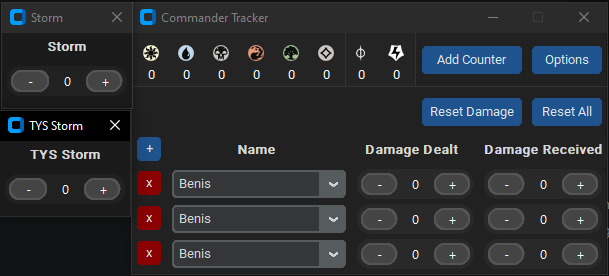
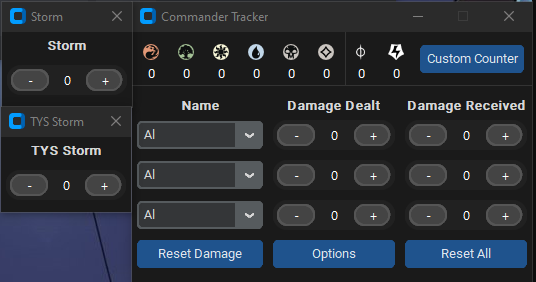
Return Screenshot to release version.

diff --git a/README.md b/README.md
@@ -3,16 +3,16 @@
 A lightweight tracker for EDH / Commander games using a simple desktop GUI.
 
 ## Features
-* Track mana, experience and poison.
+* Track mana, energy, and poison.
 * Track damage dealt by and received from up to 10 players.
 * Create custom counters as needed. 
 * Store names of friends and regular players.
 
 ## Shortcuts
-* Left-click adds to a mana counter
-* Right-click subtracts from a mana counter
-* Shift + Left-click resets mana counter to 0
-* Ctrl + Left-click resets all mana counters to 0
+* Left-click adds to mana, poison, and energy counters
+* Right-click subtracts from mana, poison, and energy counters
+* Shift + Left-click resets mana, poison, and energy counters to 0
+* Ctrl + Left-click resets all mana, poison, and energy counters to 0
 
 ![Application Screenshot](./image/app_screenshot.png)
 